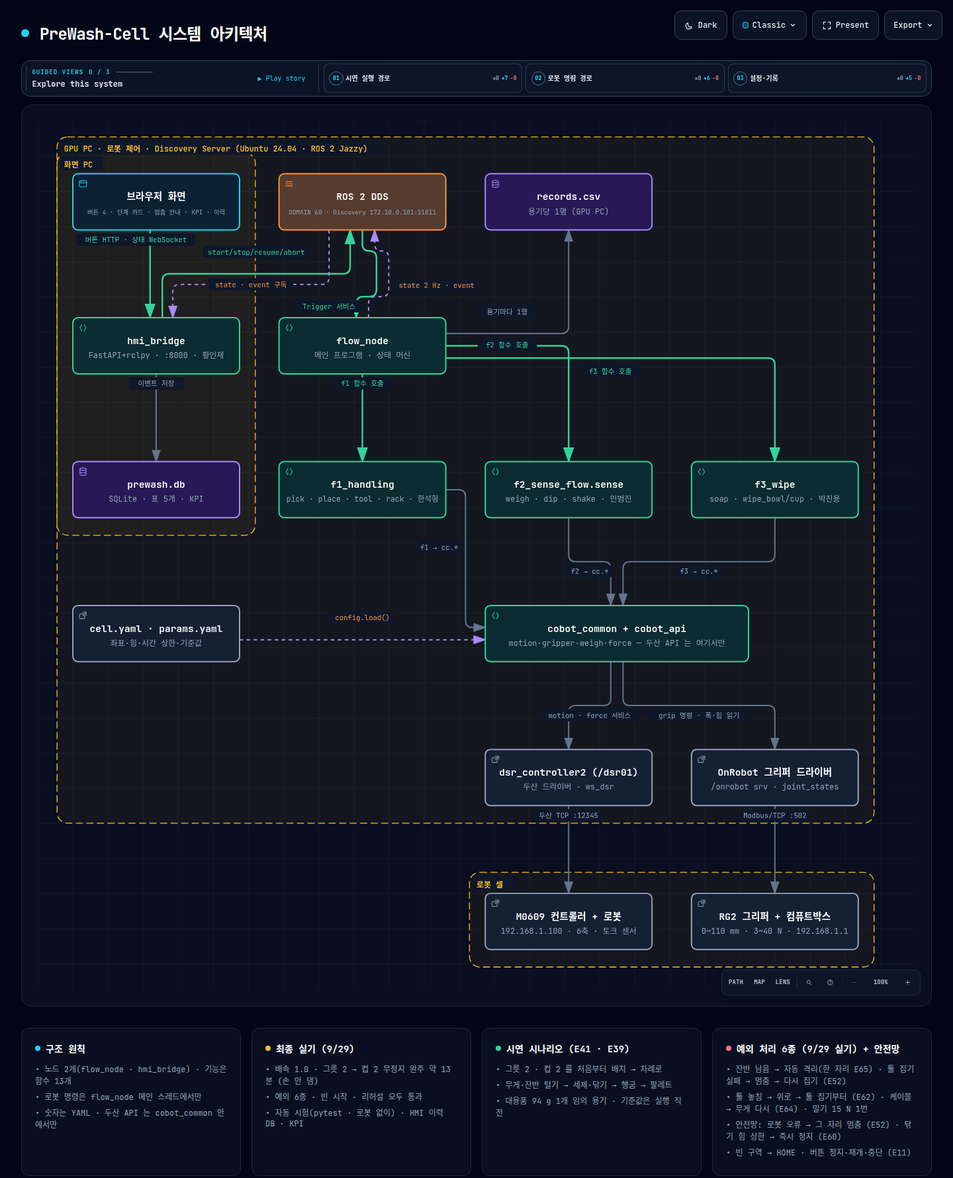
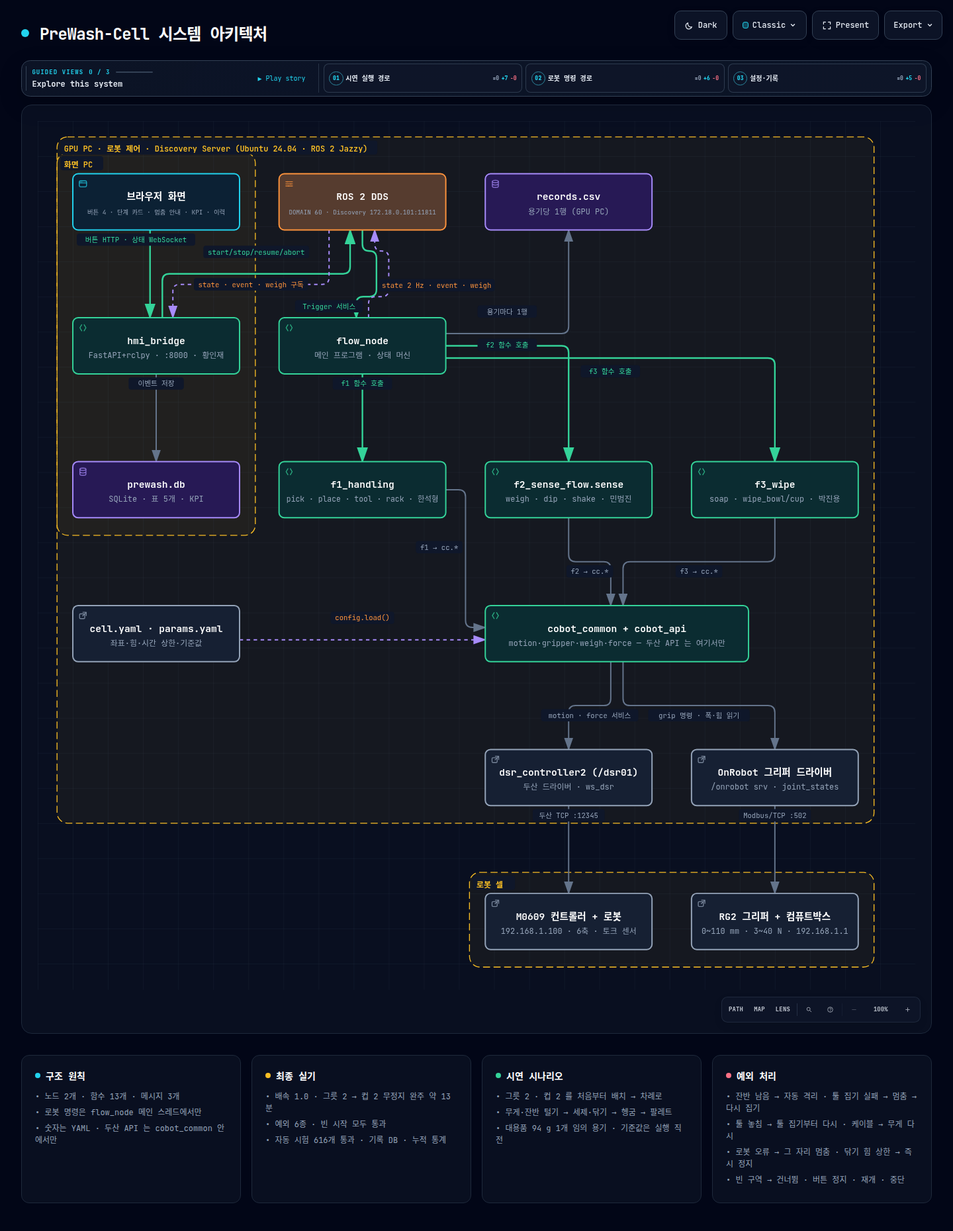
docs: 9/29 저녁 수정분 반영 — 결정 E69~E71 · 메시지 3개 · 무게 실시간 표시
- 결정 기록: E69 밀기 뒤 대기 · E70 무게 30 × 0.5 s 와 실시간 표시 · E71 새 시작 초기화
- 인터페이스: /flow/weigh 토픽과 WeighLive 메시지 정의 추가
- 설계: 통신 표 · 패키지 표 · 넛지 재개 · 회차 초기화 · 무게 설명
- 결과표: 자동 시험 616 · 9/29 저녁 실기 결과 · 실기 확인 전 항목
- 아키텍처 그림: 무게 토픽 표시, 카드 문구에서 결정 번호를 걷어 냄

diff --git a/docs/images/system_architecture_pc.html b/docs/images/system_architecture_pc.html
@@ -5167,7 +5167,7 @@ OTHER DEALINGS IN THE FONT SOFTWARE.
         <path data-edge-from="hmi" data-edge-to="db" data-edge-label="이벤트 저장" data-edge-key="1" data-edge-id="hmi-db" data-composition-points="135,288;135,388" d="M 135 288 L 135 388" class="a-default" stroke-width="1.5" marker-end="url(#arrowhead)"/>
         <path data-edge-from="hmi" data-edge-to="dds" data-edge-label="start/stop/resume/abort" data-edge-key="2" data-edge-id="hmi-dds" data-composition-points="142,224;142,174;356,174;356,124" d="M 142 224 L 142 182 Q 142 174 150 174 L 348 174 Q 356 174 356 166 L 356 124" class="a-emphasis" stroke-width="1.8" marker-end="url(#arrowhead-emphasis)"/>
         <path data-edge-from="dds" data-edge-to="flow" data-edge-label="Trigger 서비스" data-edge-key="3" data-edge-id="dds-flow" data-composition-points="370,124;370,148;386,148;386,200;363,200;363,224" d="M 370 124 L 370 140 Q 370 148 378 148 L 378 148 Q 386 148 386 156 L 386 192 Q 386 200 378 200 L 371 200 Q 363 200 363 208 L 363 224" class="a-emphasis" stroke-width="1.8" marker-end="url(#arrowhead-emphasis)"/>
-        <path data-edge-from="flow" data-edge-to="dds" data-edge-label="state 2 Hz · event" data-edge-key="4" data-edge-id="flow-dds" data-composition-points="377,224;377,200;400,200;400,148;384,148;384,124" d="M 377 224 L 377 208 Q 377 200 385 200 L 392 200 Q 400 200 400 192 L 400 156 Q 400 148 392 148 L 392 148 Q 384 148 384 140 L 384 124" class="a-dashed" stroke-width="1.5" marker-end="url(#arrowhead-dashed)"/>
+        <path data-edge-from="flow" data-edge-to="dds" data-edge-label="state 2 Hz · event · weigh" data-edge-key="4" data-edge-id="flow-dds" data-composition-points="377,224;377,200;400,200;400,148;384,148;384,124" d="M 377 224 L 377 208 Q 377 200 385 200 L 392 200 Q 400 200 400 192 L 400 156 Q 400 148 392 148 L 392 148 Q 384 148 384 140 L 384 124" class="a-dashed" stroke-width="1.5" marker-end="url(#arrowhead-dashed)"/>
         <path data-edge-from="flow" data-edge-to="records" data-edge-label="용기마다 1행" data-edge-key="5" data-edge-id="flow-records" data-composition-points="465,242;605,242;605,124" d="M 465 242 L 597 242 Q 605 242 605 234 L 605 124" class="a-default" stroke-width="1.5" marker-end="url(#arrowhead)"/>
         <path data-edge-from="flow" data-edge-to="f1" data-edge-label="f1 함수 호출" data-edge-key="6" data-edge-id="flow-f1" data-composition-points="370,288;370,388" d="M 370 288 L 370 388" class="a-emphasis" stroke-width="1.8" marker-end="url(#arrowhead-emphasis)"/>
         <path data-edge-from="flow" data-edge-to="f2" data-edge-label="f2 함수 호출" data-edge-key="7" data-edge-id="flow-f2" data-composition-points="465,256;605,256;605,388" d="M 465 256 L 597 256 Q 605 256 605 264 L 605 388" class="a-emphasis" stroke-width="1.8" marker-end="url(#arrowhead-emphasis)"/>
@@ -5180,7 +5180,7 @@ OTHER DEALINGS IN THE FONT SOFTWARE.
         <path data-edge-from="common" data-edge-to="gripdrv" data-edge-label="grip 명령 · 폭·힘 읽기" data-edge-key="14" data-edge-id="common-grip" data-composition-points="667,616;667,666;840,666;840,716" d="M 667 616 L 667 658 Q 667 666 675 666 L 832 666 Q 840 666 840 674 L 840 716" class="a-default" stroke-width="1.5" marker-end="url(#arrowhead)"/>
         <path data-edge-from="dsr" data-edge-to="ctrl" data-edge-label="두산 TCP :12345" data-edge-key="15" data-edge-id="dsr-ctrl" data-composition-points="605,780;605,880" d="M 605 780 L 605 880" class="a-default" stroke-width="1.5" marker-end="url(#arrowhead)"/>
         <path data-edge-from="gripdrv" data-edge-to="rg2" data-edge-label="Modbus/TCP :502" data-edge-key="16" data-edge-id="grip-rg2" data-composition-points="840,780;840,880" d="M 840 780 L 840 880" class="a-default" stroke-width="1.5" marker-end="url(#arrowhead)"/>
-        <path data-edge-from="dds" data-edge-to="hmi" data-edge-label="state · event 구독" data-edge-key="17" data-edge-id="dds-hmi" data-composition-points="332,124;332,186;154,186;154,224" d="M 332 124 L 332 178 Q 332 186 324 186 L 162 186 Q 154 186 154 194 L 154 224" class="a-dashed" stroke-width="1.5" marker-end="url(#arrowhead-dashed)"/>
+        <path data-edge-from="dds" data-edge-to="hmi" data-edge-label="state · event · weigh 구독" data-edge-key="17" data-edge-id="dds-hmi" data-composition-points="332,124;332,186;154,186;154,224" d="M 332 124 L 332 178 Q 332 186 324 186 L 162 186 Q 154 186 154 194 L 154 224" class="a-dashed" stroke-width="1.5" marker-end="url(#arrowhead-dashed)"/>
 
         <!-- Components -->
         <g id="node-browser" data-node-id="browser" data-node-label="브라우저 화면" tabindex="0" role="button" aria-label="Focus 브라우저 화면, 버튼 4 · 단계 카드 · 멈춤 안내 · KPI · 이력, 화면 PC" aria-pressed="false" data-node-kind="frontend" data-node-sublabel="버튼 4 · 단계 카드 · 멈춤 안내 · KPI · 이력" data-node-context="화면 PC">
@@ -5378,9 +5378,9 @@ OTHER DEALINGS IN THE FONT SOFTWARE.
           <rect x="293.4" y="204" width="77.2" height="14" rx="3" class="c-mask"/>
           <text x="332" y="214" class="t-backend" font-size="8" text-anchor="middle">Trigger 서비스</text>
         </g>
-        <g data-detail="context" data-edge-from="flow" data-edge-to="dds" data-edge-label="state 2 Hz · event" data-edge-key="4" data-edge-id="flow-dds">
-          <rect x="406.3" y="180" width="96.39999999999999" height="14" rx="3" class="c-mask"/>
-          <text x="454.5" y="190" class="t-messagebus" font-size="8" text-anchor="middle">state 2 Hz · event</text>
+        <g data-detail="context" data-edge-from="flow" data-edge-to="dds" data-edge-label="state 2 Hz · event · weigh" data-edge-key="4" data-edge-id="flow-dds">
+          <rect x="388.3" y="180" width="132.4" height="14" rx="3" class="c-mask"/>
+          <text x="454.5" y="190" class="t-messagebus" font-size="8" text-anchor="middle">state 2 Hz · event · weigh</text>
         </g>
         <g data-detail="context" data-edge-from="flow" data-edge-to="records" data-edge-label="용기마다 1행" data-edge-key="5" data-edge-id="flow-records">
           <rect x="501.2" y="210" width="67.6" height="14" rx="3" class="c-mask"/>
@@ -5430,9 +5430,9 @@ OTHER DEALINGS IN THE FONT SOFTWARE.
           <rect x="799" y="784" width="82" height="14" rx="3" class="c-mask"/>
           <text x="840" y="794" class="t-muted" font-size="8" text-anchor="middle">Modbus/TCP :502</text>
         </g>
-        <g data-detail="context" data-edge-from="dds" data-edge-to="hmi" data-edge-label="state · event 구독" data-edge-key="17" data-edge-id="dds-hmi">
-          <rect x="194.8" y="179" width="96.4" height="14" rx="3" class="c-mask"/>
-          <text x="243" y="189" class="t-messagebus" font-size="8" text-anchor="middle">state · event 구독</text>
+        <g data-detail="context" data-edge-from="dds" data-edge-to="hmi" data-edge-label="state · event · weigh 구독" data-edge-key="17" data-edge-id="dds-hmi">
+          <rect x="178" y="179" width="130" height="14" rx="3" class="c-mask"/>
+          <text x="243" y="189" class="t-messagebus" font-size="8" text-anchor="middle">state · event · weigh 구독</text>
         </g>
 
         <!-- Boundary labels (foreground masks keep routes out of titles) -->
@@ -5645,7 +5645,7 @@ OTHER DEALINGS IN THE FONT SOFTWARE.
           <h3>구조 원칙</h3>
         </div>
         <ul>
-          <li>&bull; 노드 2개(flow_node · hmi_bridge) · 기능은 함수 13개</li>
+          <li>&bull; 노드 2개 · 함수 13개 · 메시지 3개</li>
           <li>&bull; 로봇 명령은 flow_node 메인 스레드에서만</li>
           <li>&bull; 숫자는 YAML · 두산 API 는 cobot_common 안에서만</li>
         </ul>
@@ -5654,19 +5654,19 @@ OTHER DEALINGS IN THE FONT SOFTWARE.
       <div class="card">
         <div class="card-header">
           <div class="card-dot amber"></div>
-          <h3>최종 실기 (9/29)</h3>
+          <h3>최종 실기</h3>
         </div>
         <ul>
-          <li>&bull; 배속 1.0 · 그릇 2 → 컵 2 무정지 완주 약 13분 (손 안 댐)</li>
-          <li>&bull; 예외 6종 · 빈 시작 · 리허설 모두 통과</li>
-          <li>&bull; 자동 시험(pytest · 로봇 없이) · HMI 이력 DB · KPI</li>
+          <li>&bull; 배속 1.0 · 그릇 2 → 컵 2 무정지 완주 약 13분</li>
+          <li>&bull; 예외 6종 · 빈 시작 모두 통과</li>
+          <li>&bull; 자동 시험 616개 통과 · 기록 DB · 누적 통계</li>
         </ul>
       </div>
 
       <div class="card">
         <div class="card-header">
           <div class="card-dot emerald"></div>
-          <h3>시연 시나리오 (E41 · E39)</h3>
+          <h3>시연 시나리오</h3>
         </div>
         <ul>
           <li>&bull; 그릇 2 · 컵 2 를 처음부터 배치 → 차례로</li>
@@ -5678,13 +5678,13 @@ OTHER DEALINGS IN THE FONT SOFTWARE.
       <div class="card">
         <div class="card-header">
           <div class="card-dot rose"></div>
-          <h3>예외 처리 6종 (9/29 실기) + 안전망</h3>
+          <h3>예외 처리</h3>
         </div>
         <ul>
-          <li>&bull; 잔반 남음 → 자동 격리(한 자리 E65) · 툴 집기 실패 → 멈춤 → 다시 집기 (E52)</li>
-          <li>&bull; 툴 놓침 → 위로 → 툴 집기부터 (E62) · 케이블 → 무게 다시 (E64) · 밀기 15 N 1번</li>
-          <li>&bull; 안전망: 로봇 오류 → 그 자리 멈춤 (E52) · 닦기 힘 상한 → 즉시 정지 (E60)</li>
-          <li>&bull; 빈 구역 → HOME · 버튼 정지·재개·중단 (E11)</li>
+          <li>&bull; 잔반 남음 → 자동 격리 · 툴 집기 실패 → 멈춤 → 다시 집기</li>
+          <li>&bull; 툴 놓침 → 툴 집기부터 다시 · 케이블 → 무게 다시</li>
+          <li>&bull; 로봇 오류 → 그 자리 멈춤 · 닦기 힘 상한 → 즉시 정지</li>
+          <li>&bull; 빈 구역 → 건너뜀 · 버튼 정지 · 재개 · 중단</li>
         </ul>
       </div>
     </div>

diff --git a/docs/03_설계_SDD.md b/docs/03_설계_SDD.md
@@ -47,6 +47,7 @@ GPU PC ↔ 컨트롤러는 두산 전용 TCP(DDS 아님 · 유선 고정 192.168
 |---|---|---|---|
 | `/flow/state` | `cobot_msgs/msg/FlowState` (2 Hz) | flow_node → hmi_bridge | GPU PC → 화면 PC (DDS · Discovery Server) |
 | `/flow/event` | `cobot_msgs/msg/FlowEvent` | flow_node → hmi_bridge | GPU PC → 화면 PC (DDS · Discovery Server) |
+| `/flow/weigh` | `cobot_msgs/msg/WeighLive` (무게를 재는 동안 표본마다 · E70) | flow_node → hmi_bridge | GPU PC → 화면 PC (DDS · Discovery Server) |
 | ~~`/cell/force` · `/cell/gripping`~~ | — | — | ❌ **삭제(황인재 9/21 결정 E21)** — 발행한 적이 없고(HMI 가짜만), 힘제어는 몇 초뿐 · 컵은 파지 판정을 안 한다(E19). HMI 는 힘 그래프·파지 표시 대신 **셀 평면도에 로봇 위치·동작**을 그린다(새 인터페이스 없음) · IRD §6 |
 | `/flow/start` `/flow/stop` `/flow/resume` `/flow/abort`(9/20 신설) | `std_srvs/srv/Trigger` | hmi_bridge → flow_node | 화면 PC → GPU PC (DDS · Discovery Server) |
 | **기능 함수 13개** `f1.pick` `regrip_top`(E65) `place` `move_to` `tool` `rack_place` · `f2.weigh` `leftover_loop` `shake` `dip` · `f3.soap` `wipe_bowl` `wipe_cup` | **파이썬 함수 호출** (반환 타입 `cobot_api.*Result`) | flow_node 메인 스레드 → 기능 패키지 | GPU PC 같은 프로세스 (ROS 통신 아님) |
@@ -68,7 +69,7 @@ GPU PC ↔ 컨트롤러는 두산 전용 TCP(DDS 아님 · 유선 고정 192.168
 | `f3_wipe` | 함수 모듈 `wipe.py` (노드 아님) + `test/rig_f3.py` | 박진용 | `f3` 절 | GPU PC |
 | `cobot_common` | 라이브러리: 두산 API를 감싼 공용 로봇 함수 + **초기화(`init`, §3.2)** + 설정 로더·`config/cell.yaml`·`params.yaml` | **네 사람 분담(9/19)**: 초기화·로더 황인재 · 이동·그리퍼 한석형 · `weigh` 민범진 · 힘 함수와 **패키지 정리·리뷰 박진용** · 좌표 값(`cell.yaml`)은 한석형 | 두 파일 | GPU PC |
 | `cobot_api` | 라이브러리: **기능 함수의 약속**(ID·코드·반환 타입·함수 서명, IRD 정본). 로봇 코드 없음 | **황인재(PM)** | IRD | GPU PC · 화면 PC |
-| `cobot_msgs` | 메시지 2개(`FlowState`·`FlowEvent`, IRD 정본) | **황인재(PM)** — `src/cobot_msgs/msg/`를 그대로 복사 | IRD | GPU PC · 화면 PC |
+| `cobot_msgs` | 메시지 3개(`FlowState`·`FlowEvent`·`WeighLive`, IRD 정본) | **황인재(PM)** — `src/cobot_msgs/msg/`를 그대로 복사 | IRD | GPU PC · 화면 PC |
 | `f4_hmi` | **노드 `hmi_bridge`** (+ `fake_state_pub` 개발용) | 황인재 | `hmi` 절 | 화면 PC |
 | `prewash_bringup` | launch: `prewash.launch.py` · `prewash_mock.launch.py` | 황인재(PM) | — | GPU PC |
 
@@ -118,7 +119,7 @@ rokey_pjt01_ws/                ← 저장소 루트 (rokey_9_pjt1_D2)
 ├── docs/                      문서·메시지 정본·이미지·회의록·트러블슈팅
 ├── src/
 │   ├── cobot_api/             contracts.py (ID·코드·반환 타입·함수 서명 — IRD 정본, PM)
-│   ├── cobot_msgs/            msg/FlowState.msg · FlowEvent.msg (IRD 정본, PM)
+│   ├── cobot_msgs/            msg/FlowState.msg · FlowEvent.msg · WeighLive.msg (IRD 정본, PM)
 │   ├── cobot_common/          bootstrap.py (init — 두산 API 초기화·통신 노드, §3.2) · config.py (로더) · `__init__.py` (함수 재수출) [H] · motion.py (이동) [H] · gripper.py (그리퍼) [M] · weigh.py (무게) [M] · force.py (힘 함수) [P] · config/cell.yaml · config/params.yaml
 │   ├── f1_handling/           handling.py (pick·regrip_top·place·move_to·tool·rack_place) · test/rig_f1.py
 │   ├── f2_sense_flow/         sense.py (weigh·leftover_loop·shake·dip) · flow.py (상태 머신) · flow_node.py (메인 프로그램) · mock/mock_f1.py·mock_f2.py·mock_f3.py · logger.py · test/rig_f2.py
@@ -377,6 +378,8 @@ stateDiagram-v2
   PAUSED --> ISOLATE: abort (사람이 문제라고 판단 — 위로 → HOME → 툴 반납 → 홈 용기 위로 다시 잡기(E65) → HOME → 격리 → HOME → 다음 용기 · E52 정리 함수 통일, ROBOT_ERROR 에서는 거부)
 ```
 - 각 전이에서 `/flow/state` 발행(2 Hz 타이머 + 전이 즉시), 용기 종료 시 `/flow/event` + CSV 1행.
+- **회차마다 0 부터 센다**(E71 · 9/29): 시작할 때 완료 수(`done_bowl`·`done_cup`) · 격리 수 · 팔레트 칸 · 마지막 코드를 지운다 — 팔레트 칸 배정과 화면의 팔레트 그림이 지난 회차에 머물지 않게. 소모품 횟수는 교체할 때까지 이어 센다. 운영: 시작 전에 팔레트와 격리 구역을 비운다.
+- **무게**(E70 · 9/29): 표본 30개 × 0.5 s(약 15 s 창)의 중앙값. 표본을 읽을 때마다 `/flow/weigh` 로 내보내 화면에 재는 값을 보여 준다.
 - ✅ **정지 방식(황인재 9/20)** — 목적: 문제가 생겼을 때 **바로 멈췄다가, 사람이 보고 문제없으면 이어서** 하기. ① **일시 정지**(`/flow/stop`): 통신 노드가 두산 `move_pause`를 불러 **이동 도중 즉시** 멈춘다 — 이동 함수(`motion.py`)를 비동기 이동(`amovej`/`amovel`) + `check_motion` 폴링으로 바꿔야 성립한다(V-24a 시험: 동기 이동 중에는 `move_pause`가 이동이 끝난 뒤에야 처리된다 · 비동기에서는 0.13 s에 멈추고 `move_resume`으로 같은 동작이 이어진다). 호출하는 쪽(F1·F2·F3)의 코드는 바뀌지 않는다. ② **재개**(`/flow/resume`): 하던 이동을 이어서 — 🔄 9/29: 재개 때 `stop` 깃발도 내린다. 이동 도중 멈춘 것을 재개하면 다음 단계 앞에서 또 멈추지 않는다(**재개 한 번이면 이어 간다** · 전에는 두 번 눌러야 했다 · ✅ 실기 11:44: 닦기 중 정지 → 재개 → 다시 안 멈춤). ③ **중단**(`/flow/abort`): 그 용기를 접고(곧게 위로 → HOME → 툴 반납 → 홈 용기 위로 다시 잡기 → 격리 → HOME · §7 격리 마무리 순서) 다음 용기. ④ 🚨 **먹는 범위(V-24 구현 기준으로 정정)**: 이동 함수를 거치는 모든 이동에서 즉시 멈춘다 — **접촉 하강·닦기의 걸음(`move_rel`)도 걸음 도중에 멈춘다**(순응·힘제어는 켜진 채 그 자리에 선다). 끝난 뒤에야 멈추는 것은 `move_periodic`(안착 탐색)·그리퍼·무게 대기와 닦기의 나선·원호·주기 운동(아래 알려진 제한)이다. 힘이 걸린 채 멈추는 동작은 Virtual에서 시험할 수 없어 실기로 넘겼다 — 실기: V-24 빈손 통과(9/22) · 툴을 든 채 세제 단계·닦기 중 정지 → 재개 ✅(9/29). ⑤ 되돌아갈 자리(쓰지 않았다): 실기 확인이 안 되면 아래의 "단계 사이 정지"만으로 시연하기로 했었다(서비스 이름이 같아 HMI는 그대로).
 - (기반 — 9/20 오전 구현 완료) `stop`은 현재 기능 함수가 끝난 뒤 다음 호출을 보류 — **용기 사이뿐 아니라 `process_one()`의 단계 사이마다** `stop` 깃발을 본다(9/20 V-20에서 발견한 결함의 기준, 재검증은 `rig_v20.py probe`). 용기·툴을 든 채 멈출 수 있다: 그때 **파지는 `NORMAL` 그대로**(기능 함수는 끝날 때 `HOLD` → `NORMAL`로 되돌리므로 단계 사이는 이미 `NORMAL`이다) — 🚨 멈추는 시점에 **그리퍼 명령을 새로 보내지 않는다**(힘을 바꾸면 다시 파지하므로 놓칠 수 있다), 놓지도 않는다. `resume`하면 다음 단계부터 이어 간다. 하드웨어 비상정지는 로봇 E-Stop.
 - **실행 구조**(§3.2): `flow_node.py`의 `main()`이 ① `cobot_common.init('flow_node')` ② 통신 노드(`io_node()`)에 `/flow/start·stop·resume` 서비스, `/flow/state` 2 Hz 타이머, `/flow/event` 발행기를 단다 — **콜백은 깃발(`start`·`stop`·`resume`)만 세운다** ③ 메인 스레드는 `start` 깃발을 기다렸다가 plan대로 기능 함수를 차례로 부르고, **호출 사이마다 `stop` 깃발을 본다.**
@@ -384,6 +387,7 @@ stateDiagram-v2
 - **mock 전환**: `params.yaml`의 `flow.use_mock: [f1, f3]`에 있는 기능은 `f2_sense_flow.mock.mock_f1`처럼 같은 함수 이름의 가짜 모듈을 import한다. 전부 mock이면 `cobot_common.init(robot=False)`로 드라이버 없이 돈다.
 - **종료**: Ctrl+C 처리는 `cobot_common.init()`이 맡는다(§3.1). `flow_node`는 메인 루프를 `try/finally`로 감싸 `cc.shutdown()`만 부르고, 신호 처리기를 따로 걸지 않는다.
 - **실패했을 때 툴 반납은 격리 정리(재시도 소진 · 중단)에서만** 한다(정상 흐름은 WIPE 단계가 매번 툴을 반납한다) — flow가 곧게 위로 → HOME → `tool(RETURN)`(쥔 툴을 홀더에). 멈춤(PAUSED)에서는 쥔 것을 그대로 두고 그 자리에 선다: 로봇 오류는 곧게 위로 한 번만 시도하고(위치를 모르는 `MoveIncomplete` 면 그것도 안 함) 사람 신호 뒤 그리퍼만 열며, 케이블 이상은 후퇴 없이 그 자리에서 멈춘다(§7).
+- **넛지로 재개할 때는 먼저 기다린다**(`flow._after_nudge` · E69 · 9/29): 밀기를 알아챈 순간에는 손이 아직 팔에 있어, 곧바로 이동을 보내면 제어기가 외력으로 그 이동을 세운다. 넛지로 풀리는 멈춤 전부(케이블 · 툴 놓침 · 툴 집기 실패 · 로봇 오류 신호 1)에서 손을 뗄 시간(`f2.nudge.settle_s` 1.5 s)을 기다린 뒤 아래 복구를 한다. 재개 버튼은 기다리지 않는다. 자동 시험 ✅ · 실기 확인 전.
 - **넛지·재개 뒤 로봇 복구**(`flow._recover_robot` — 넛지 재개 · 케이블 멈춤 재개 · 로봇 오류 신호 뒤에 부른다): 보호정지(SAFE_STOP)면 자동 복구(`set_robot_control` · E43) → STANDBY 가 될 때까지 본다(최대 `cell.limits.nudge_resume_settle_s` 3 s). 🔄 9/29: 복구 전 STANDBY 가 아니었으면(보호정지를 풀었으면) 이동 전 `cell.limits.nudge_after_reset_s`(**2 s**) 더 기다린다 — 풀린 직후 보낸 이동을 제어기가 곧 세웠다(실기: 복구 3 ms 뒤 HOME 이동 → 0.4 s 뒤 경고 7056 → `MoveIncomplete`). ✅ 리허설 12:26 실기: 케이블 멈춤에서 밀기 1번 → 보호정지 해제 로그 '이동 전 2 s 더 기다린다' → HOME 경유 무게 다시 통과.
 - ⚠ **알려진 제한(9/29 · 이번에는 고치지 않음)**: 닦기 동작 중 일시 정지는 **그 동작이 끝난 뒤** 멈춘다 — 컵 주기 운동 ≈13 s · 그릇 나선 ≈3 s(그 동작을 기다리는 루프가 정지 깃발을 보지 않는다 · §5.4). 개선 방향은 §14 향후 개선: 즉시 정지(`stop_now`) + 재개 때 닦기를 처음부터.
 

diff --git a/docs/04_결과_결과표.md b/docs/04_결과_결과표.md
@@ -1,13 +1,13 @@
-# 04. 결과표 (as-built) — PreWash-Cell · 9/29 최종
+# 04. 결과표 (as-built) — PreWash-Cell · 9/30 최종
 
 > 발표 자료(④ 경과 · ⑤ 자체평가)와 제출 README 의 근거. 수치의 출처는 `docs/test_logs/`(9/23 `20260923_VER-0923_검증기록_황인재.md` §17~§21 · 9/25 `20260925_UT-F4_TC-11_HMI_황인재.md`)와 결정기록(`docs/meetings/20260919_결정기록_DSN-03.md`). 9/29 실기(INT-4b · E51 — 1회차 기본 흐름 · 2·3회차 예외 · 12:22 리허설) 결과는 §2~§5 · §7 에 넣었다. 🟡 는 하나 — E60 단독 확인(닦기 힘 상한 → 즉시 정지 · 자동 시험만 · 실기 미실시).
 
 ## 1. 제출 코드 상태
 | 항목 | 값 |
 |---|---|
-| 제출 코드 | main · 태그 `v1.0-submit`(9/29) = 9/29 리허설 코드(f480678) + 정리 커밋(주석·로그 문구·쓰지 않는 코드 정리 · 동작 변화 없음) + 실기 런치 기본 배속 1.0(E67). 리허설 코드 = 9/24 동결 코드(E45 · 태그 `v1.0-demo` = 8874dfc · 9/23 튜닝 1~3차까지) + 동결 뒤 결정(E46~E67 — 예외 처리 재설계 · 기록 DB·누적 KPI 화면 · 9/29 실기 수정) + 컵 팔레트 C1·C2 재티칭 |
-| 자동 시험 | `pytest src` **606 passed · 8 skipped · 1 xfailed**(9/30 main 을 새로 받아 빌드한 폴더 · 로봇 없이 · xfail 은 재시도 결과 기록의 알려진 빈틈 표시) · 그중 HMI `pytest src/f4_hmi` 40(HMI 상자의 파이썬으로 돌리면 48) · 화면 계산 `node --test` 15 |
-| 결정 | E1~E68(결정기록 · E52 예외 재설계 · E60~E62 닦기 정지·재시도 조건·툴 놓침 재개 · E61 정정 · E63 → E64 케이블 멈춤은 밀면 바로 재개 · E65 격리 한 자리 · 위에서 다시 잡기 · E66) |
+| 제출 코드 | main(9/30 · 제출 태그 `v1.0-submit` 은 최종 실기 뒤에 붙인다) = 9/29 리허설 코드(f480678) + 정리 커밋(주석·로그 문구·쓰지 않는 코드 정리 · 동작 변화 없음) + 실기 런치 기본 배속 1.0(E67) + 9/29 저녁 수정(밀기 뒤 대기 · 무게 실시간 표시 · 새 시작 초기화 — E69~E71). 리허설 코드 = 9/24 동결 코드(E45 · 태그 `v1.0-demo` = 8874dfc · 9/23 튜닝 1~3차까지) + 동결 뒤 결정(E46~E67 — 예외 처리 재설계 · 기록 DB·누적 KPI 화면 · 9/29 실기 수정) + 컵 팔레트 C1·C2 재티칭 |
+| 자동 시험 | `pytest src` **616 passed · 8 skipped · 1 xfailed**(9/30 main 을 새로 받아 빌드한 폴더 · 로봇 없이 · xfail 은 재시도 결과 기록의 알려진 빈틈 표시) · 그중 HMI `pytest src/f4_hmi` 42(HMI 상자의 파이썬으로 돌리면 50) · 화면 계산 `node --test` 15 |
+| 결정 | E1~E71(결정기록 · E52 예외 재설계 · E60~E62 닦기 정지·재시도 조건·툴 놓침 재개 · E61 정정 · E63 → E64 케이블 멈춤은 밀면 바로 재개 · E65 격리 한 자리 · 위에서 다시 잡기 · E66 · E69 밀기 뒤 대기 · E70 무게 실시간 표시 · E71 새 시작 초기화) |
 | 시연 구성 | PC 2대 — GPU PC(로봇 제어 · Fast DDS Discovery Server · 브링업 · `flow_node`) + 화면 PC(`hmi_bridge` · 브라우저 · 기록 DB) · 강의실 무선망이 ROS 2 기본 탐색을 막아 Discovery Server(172.18.0.101:11811)로 연결 · 구성·실행 순서는 SDD §1.1~1.2 · §10 |
 | 시험 기록 | 9/18~9/25 에 32개 작성 → 설계·결과 근거가 되는 기록만 `docs/test_logs/` 에 남김(과정 기록은 git 이력) · 사고·교훈은 §6 |
 
@@ -44,7 +44,8 @@
 | 오는 길 차 | 집은 자리에서 바로 재면 −113 g · HOME 경유 −23 g(90 g 차) | 무게는 **항상 HOME 경유**(9/23) · 흐름의 별도 WEIGH 이동 단계 제거(9/23 튜닝) |
 | 98 g 대용품 읽은 값 | 60.8 · 91.4 · 50.1 · 56.4 g(9/23) | 시연은 94 g 1개(E39) · 9/29 사전 3회 모두 ≥ 65 g ✅ |
 | 떨림(케이블 판정) | 정상 8~45 g(컵 1 45) · 9/29 1회차 최대 42 g | 상한 50 → **80 g**(E47) · 초과 → 멈춤 → 가볍게 밀기(15 N · E48) 또는 화면 재개 → 바로 재개(제자리 재측정 없음 · E64) → 밀기였으면 손 뗄 시간 1.5 s → 보호정지 복구(풀었으면 2 s 더) → 무게 단계부터 다시 · 새 방식 리허설 ✅(떨림 156 g → 밀기 1번 → 무게 다시 −3.9 g 통과 · 멈춤 약 8 s) |
-| 힘센서 부호 | 하중 API 는 Fz 절댓값이라 0 근처에서 튐 | 툴 힘센서 Fz 부호 그대로(9/22) · 표본 10 × 0.7 s |
+| 힘센서 부호 | 하중 API 는 Fz 절댓값이라 0 근처에서 튐 | 툴 힘센서 Fz 부호 그대로(9/22) · 표본 10 × 0.7 s(당시) |
+| 표본 수 · 간격 | 30개 × 0.5 s(약 15 s 창)의 중앙값 · 재는 값은 화면에 실시간 표시(E70 · 9/29 저녁) | 9/29 저녁 실기: 빈 용기는 −43.1 ~ +24.9 g(평균 약 −25 g)로 읽혔고, 94 g 대용품은 80.4 · 58.8 · 53.9 g 로 읽혀 판정은 모두 맞았다. 다만 임계 50 g 과의 여유가 작아 빈 용기 기준값을 실행 직전에 다시 잰다 |
 
 ## 5. 힘·접촉
 | 항목 | 값 |
@@ -87,7 +88,8 @@
 - **재개 한 번(stop 깃발 내림) ✅**: 11:42 실행에서 닦기 중 정지(11:44:00) → 재개(11:44:11) → 다시 멈추지 않음.
 - **두 PC 구성 실기 ✅**(9/29 14:45~15:09 · GPU PC = 로봇·flow · 화면 PC = hmi_bridge · Discovery Server): 정상 흐름 · 정지 → 재개 한 번 · 중단 → 쥔 채 격리 · 케이블 멈춤 → 밀기 1번 재개 · 잔반 남음 자동 격리 · 툴 집기 실패·툴 놓침 → 화면 재개 · 빈 시작(두 구역 건너뜀 40 s) · 버튼 응답 7~96 ms(와이파이 경유 · DB `commands.latency_ms`).
 - 기록 코드 바로잡음(E68): 이동 중에 중단한 용기가 이력에 `ROBOT_ERROR` 로 찍히던 것(중단이 이동을 끊어 마지막 코드가 로봇 오류로 남음 · 격리 동작은 정상) → 중단 격리는 `OPERATOR_ABORT`('관리자 격리')로 기록 · 자동 시험 ✅ · 🟡 실기 확인 전.
-- **🟡 남은 것**: E60 단독 확인(컵 힘 상한 → 즉시 정지)은 **실기 미실시 · 자동 시험만**. (소리 · 멈춤 1번 · 재개 2번은 9/29 확인 ✅)
+- **9/29 저녁 실기(수정 뒤)**: 새로 시작하면 완료 수 · 팔레트 그림이 0 부터 ✅(E71) · 무게를 재는 동안 화면에 값이 한 칸씩 쌓이고 다 재면 중앙값 ✅(E70) · 팔레트의 그릇 그림 방향 ✅.
+- **🟡 남은 것**: E60 단독 확인(컵 힘 상한 → 즉시 정지) · E68 '관리자 격리' 기록 · E69 밀기 뒤 대기(1.5 s)는 **자동 시험만 · 실기 확인 전**. (소리 · 멈춤 1번 · 재개 2번은 9/29 확인 ✅)
 - **알려진 제한(이번에는 고치지 않음)**: 닦기 동작 중 일시 정지는 그 동작이 끝난 뒤 멈춘다(컵 주기 운동 ≈13 s · 그릇 나선 ≈3 s — 대기 루프가 정지 깃발을 보지 않음). 개선 방향은 §8.
 - **격리 한 자리 운영 주의(E65)**: 격리 구역은 그릇·컵 한 곳이라 한 실행에서 격리가 두 번 생기면 두 번째가 첫 번째 위로 내려간다 → **시작 전 격리 구역을 비우고, 격리가 생기면 다음 격리 전에 사람이 치운다.** 홈의 용기를 다시 잡지 못하면 용기는 홈에 남고 빈손으로 HOME(사람이 치운다).
 

diff --git a/docs/02_인터페이스_IRD.md b/docs/02_인터페이스_IRD.md
@@ -74,6 +74,7 @@
 | `/flow/abort` | srv `std_srvs/Trigger` | 🆕 ✅ 신설(황인재 9/20) — `PAUSED`일 때만. 사람이 **문제가 있다고 판단하면 지금 용기를 접는다**: **먼저 곧게 위로(safe_retreat) → `HOME` 자세로**(✅ 황인재 9/20 17:25 — 이동에서 안전 높이 경유를 없앴으므로 임의의 자세에서 다음 자리로 곧장 가지 않게) → 쥐고 있는 툴 반납 → 🔄 용기가 스펀지 홈에 있으면 `f1.regrip_top` 으로 위에서 다시 잡고 `HOME`(E52 · E65 — 못 잡으면 홈에 남기고 빈손으로 `HOME` · 사람이 치운다) → 용기를 격리 구역(`ISOLATE`)에 놓기(`f1.place('ISOLATE', kind)`) → `HOME` → **다음 용기**부터. 이벤트는 `ISOLATED`. 🚨 `ROBOT_ERROR`로 멈춘 경우는 **거부**한다(로봇 위치를 모른다 — 사람이 복구, SDD §7) |
 | `/flow/state` | msg `cobot_msgs/FlowState` @2 Hz | 아래 정의. HMI는 2 s 이상 안 오면 "연결 끊김" 표시 |
 | `/flow/event` | msg `cobot_msgs/FlowEvent` | 용기 1개 완료·격리·오류마다 1건 → HMI가 SQLite에 저장 |
+| `/flow/weigh` | msg `cobot_msgs/WeighLive` | 🆕 E70(9/29) — 무게를 재는 동안 표본을 하나 읽을 때마다 1건 + 다 재면 중앙값 1건. 값은 빈 용기 기준값을 뺀 g. HMI 는 '지금 하는 일' 카드에 칸으로 보여 준다(WebSocket `type=weigh` · `GET /api/state` 의 `weigh`). 가짜 기능만 돌 때는 내지 않는다 |
 | ~~`/cell/force`~~ | ~~msg `std_msgs/Float32` @10 Hz(닦는 동안만)~~ | ❌ **삭제(황인재 9/21 결정 E21)** — main 어디에서도 발행하지 않았다(HMI 가짜 발행기만). F3 힘제어는 그릇 벽면을 도는 몇 초뿐이고 컵은 없어(E17), 실제 로봇에서는 HMI 그래프가 늘 "닦는 중 아님" 이었다 → **HMI 힘 그래프 삭제**. 힘 데이터는 F3 가 용기마다 CSV(`force_log_path`)로 남긴다 — 발표에 힘제어를 보이려면 그 파일로 그래프를 따로 그린다. (9/20 결정: 힘 그래프를 넣는다 → 철회) |
 | ~~`/cell/gripping`~~ | ~~msg `std_msgs/Bool`~~ | ❌ **삭제(황인재 9/21 결정 E21)** — 발행 코드가 한 번도 안 들어왔고, 결정 E19 로 **컵은 쥐었는지 판정하지 않으므로** "파지 중" 을 정확히 낼 수도 없다 → **HMI 파지 표시 삭제**. 대신 HMI 는 **셀 평면도 위에 로봇이 지금 어디서 무엇을 하는지** 그린다(`cell.yaml` 좌표 + `/flow/state` 의 step — 새 인터페이스 없음). 민범진·박진용은 발행을 만들지 않는다 |
 | HMI 브리지 | REST `POST /api/start` `/api/stop` `/api/resume` `/api/abort`, `GET /api/state`, `GET /api/history` · `/api/usage` · `/api/kpi?period=`(`run`·`today`·`all`) · `/api/db/{table}` · `POST /api/replace/{item}`, WS `/ws/state` | FastAPI가 rclpy로 중계 (화면 PC · `hmi.host` 127.0.0.1 → `http://localhost:8000`) |
@@ -114,8 +115,16 @@ string result           # DONE / ISOLATED / ERROR / SKIPPED
 string code
 float32 duration_s
 string force_log_path
+
+# WeighLive.msg  (E70 · 9/29)
+string kind              # BOWL / CUP / ""
+uint8 target_n           # 잴 횟수 (params.yaml f2.weigh_samples)
+float32[] samples_g      # 지금까지 잰 값(g) — 잰 순서대로 · 빈 용기 기준값을 뺀 값
+bool done                # 다 쟀다 — median_g 가 유효하다
+float32 median_g         # 최종 중앙값(g) — done 일 때만
+builtin_interfaces/Time stamp
 ```
-`cobot_msgs` v3.0은 이 메시지 2개만 담는다(서비스 12개 삭제). `/flow/*` 서비스는 `std_srvs/Trigger`.
+`cobot_msgs` 는 이 메시지 3개만 담는다(v3.0 의 2개 + 9/29 `WeighLive` · 서비스 12개 삭제). `/flow/*` 서비스는 `std_srvs/Trigger`.
 
 ## 8. 호출 순서 (flow_node)
 ```python
@@ -164,5 +173,5 @@ f1.pick('RET_B', 'BOWL') → f1.move_to('WEIGH', True, 'BOWL') → f2.leftover_l
 
 ## 10. 시험용 가짜 구현
 - **`f2_sense_flow.mock.mock_f1` · `mock_f2` · `mock_f3`**(✅ `mock_f2` 추가 — 황인재 9/20, 코드는 그 전부터 있었다): 실제 모듈과 **같은 함수 이름·같은 인자**로 즉시 `Result(ok=True)`를 돌려주고, 설정으로 실패 코드를 주입한다(`flow.mock.fail_on: ["place:SEAT_FAIL"]`). flow는 `params.yaml`의 `flow.use_mock: [f1, f3]`로 어느 쪽을 import할지 고른다. 전부 mock이면 두산 드라이버 없이 돈다 — flow·HMI 개발용, 민범진 제공. 서명 일치는 `cobot_api.check_api(mock_f1, F1Api)`로 검사한다.
-- **`fake_state_pub`**: `/flow/state`·`/flow/event`를 시나리오대로 발행 — HMI 개발용, 황인재 제작.
+- **`fake_state_pub`**: `/flow/state`·`/flow/event`·`/flow/weigh`를 시나리오대로 발행 — HMI 개발용, 황인재 제작.
 - **단독 시험 스크립트** `rig_f1.py`·`rig_f2.py`·`rig_f3.py`: `cobot_common.init('rig_f1')` 뒤 자기 함수만 직접 부른다(SDD §3.2). 용기·툴은 손으로 놓아 준다.

diff --git a/docs/meetings/20260919_결정기록_DSN-03.md b/docs/meetings/20260919_결정기록_DSN-03.md
@@ -137,3 +137,6 @@
 | E66 | **세제 펌프는 쓰지 않는다 — 코드·설정·문서에서 삭제** (9/29 12:4x · 황인재) | 세제는 툴 홀더 비눗물에 담그는 방식(E18)으로 충분하다. 펌프 동작 함수·설정·자리는 기본값이 꺼짐이라 흐름 동작은 바뀌지 않는다. 소모품 '세제'(용기당 1회) 카운트는 그대로 둔다 · 🔄 12:5x 황인재: 코드·설정은 시연 뒤 삭제 · 문서에는 '향후 개선'(세제 자동 보충) 아이디어로만 남긴다 |
 | E67 | **실기 런치 기본 배속 1.0** (9/29 오후 · 황인재 · E46 보류 종결) | 9/29 1회차(1.0 · 무정지 약 13분) · 2회차 예외 · 리허설을 모두 1.0 으로 돌려 문제가 없었다 → `prewash.launch.py` 기본 `vel_scale` 0.3 → 1.0(mock 런치는 원래 1.0). 처음 켜는 셀·재티칭 뒤 첫 실행은 `vel_scale:=0.3` 으로 낮춰 확인한다. 세척 동작은 원래 배속을 따르지 않는다(E17) |
 | E68 | **관리자 중단으로 격리한 용기의 기록 코드 = `OPERATOR_ABORT`(화면 '관리자 격리')** (9/29 오후 · 황인재) | 이동 중에 중단하면 끊긴 이동이 마지막 코드를 `ROBOT_ERROR` 로 남겨, 격리 정리가 그 값을 원인으로 기록했다(9/29 두 PC 실행 기록 DB). 중단 격리는 사람의 결정이므로 이동 도중 · 일시 정지 뒤 · 실패 멈춤 뒤 중단 모두 `OPERATOR_ABORT` 로 적고, 멈춘 원인은 멈춤 기록(`pauses`)에 남긴다. 정책 격리(잔반 남음 · 재시도 소진)는 실패 원인 코드 그대로. 로봇 동작 변화 없음 · 자동 시험 ✅ · 실기 확인 전 |
+| E69 | **밀어서 재개하는 멈춤은 모두, 손을 뗄 시간을 기다린 뒤에 로봇을 복구한다** (9/29 저녁 · 황인재) | 밀기를 알아챈 순간에는 손이 아직 팔에 있다. 곧바로 이동을 보내면 제어기가 외력으로 그 이동을 세운다(실기: 툴 놓침 · 툴 집기 실패 멈춤에서 밀고 2~3 s 뒤 로봇 오류 멈춤). E64 의 케이블 멈춤에만 있던 대기(`f2.nudge.settle_s` 1.5 s)를 넛지로 풀리는 멈춤 전부(케이블 · 툴 놓침 · 툴 집기 실패 · 로봇 오류 신호 1)에 쓴다. 순서는 기다림 → 보호정지 복구 · 상태 확인(`flow._after_nudge`). 재개 버튼은 손이 팔에 없으므로 기다리지 않는다. 자동 시험 ✅ · 실기 확인 전 |
+| E70 | **무게는 표본 30개 × 0.5 s 로 재고, 재는 값을 화면에 실시간으로 보여 준다** (9/29 저녁 · 황인재) | 무게 단계 동안 화면이 멈춘 것처럼 보였다. 표본 수 30 은 지키고 읽기 간격만 0.7 → 0.5 s 로 줄였다(창 21 → 15 s). 표본을 15개로 줄이는 안은 중앙값이 최대 ±22 g 치우칠 수 있어 쓰지 않는다. 표본을 읽을 때마다 `/flow/weigh`(`cobot_msgs/WeighLive` · 빈 용기 기준값을 뺀 값)로 내보내고, 화면 '지금 하는 일' 카드가 칸으로 보여 준 뒤 다 재면 중앙값을 보여 준다. 메시지 2개 → 3개. 좌표 · 속도 · 힘 상한은 그대로. 자동 시험 ✅ · 실기 ✅(9/29 저녁) |
+| E71 | **새로 시작하면 완료 · 격리 수를 0 부터 센다** (9/29 저녁 · 황인재) | 지난 회차의 수가 남아 팔레트 칸 배정이 마지막 칸부터 시작하고, 화면의 팔레트 그림과 진행 수도 지난 회차 그대로였다. 시작할 때 완료 수 · 격리 수 · 팔레트 칸 · 마지막 코드를 지운다. 소모품 횟수(수세미 · 세제 · 헹굼)는 교체할 때까지 이어 센다. 운영: 시작 전에 팔레트와 격리 구역을 비운다. 자동 시험 ✅ · 실기 ✅(9/29 저녁) |
